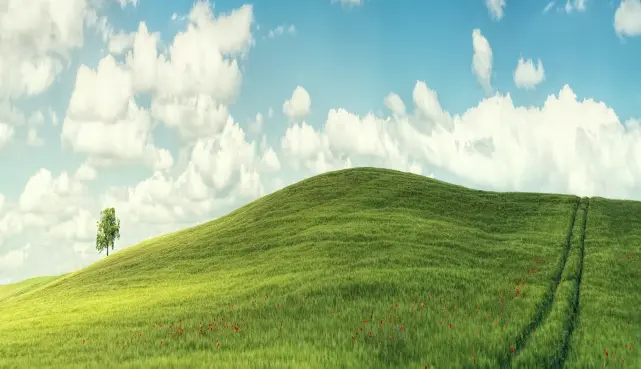
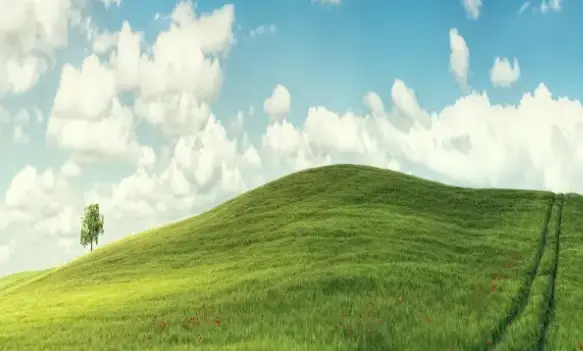
changed the images

diff --git a/src/resources/views/main/pages/career.blade.php b/src/resources/views/main/pages/career.blade.php
@@ -27,6 +27,7 @@
         href="{{ empty($generalSetting) ? asset('assets/images/favicon.png') : $generalSetting->website_favicon_link }}" />
 
     <link rel="preload" type="image/webp" fetchpriority="high" href="{{ asset('assets/career.webp') }}" as="image">
+    <link rel="preload" type="image/webp" fetchpriority="high" href="{{ asset('assets/career_mobile.webp') }}" as="image">
 
     {!! $seo->meta_header_script !!}
     {!! $seo->meta_header_no_script !!}
@@ -76,6 +77,14 @@
             .image-row-min {
                 min-height: 227px
             }
+
+            .about_banner_img{
+                margin-bottom: 0 !important
+            }
+
+            .image-row-min{
+                min-height: auto !important
+            }
         }
     </style>
 @stop
@@ -91,8 +100,17 @@
         <div class="container">
             <div class="row mb-5 image-row-min" data-animate-effect="fadeInUp">
                 <div class="col-md-12 " data-animate-effect="fadeInUp">
-                    <img src="{{ asset('assets/career.webp') }}" fetchpriority="high" alt=""
-                        class="img-fluid about_banner_img lazyload" width="1166" height="532">
+                    {{-- <img src="{{ asset('assets/career.webp') }}" fetchpriority="high" alt=""
+                        class="img-fluid about_banner_img" width="1166" height="532"> --}}
+                    <picture>
+                        <source srcset="{{ asset('assets/career_mobile.webp') }}"
+                                        media="(max-width: 991px)">
+                        <source srcset="{{ asset('assets/career.webp') }}"
+                                        media="(max-width: 1200px)">
+                        <img src="{{ asset('assets/career.webp') }}" width="1166" height="532" fetchpriority="high"
+                            alt="career"
+                            title="career" class="img-fluid about_banner_img">
+                    </picture>
                 </div>
             </div>
             {{-- <div class="row mb-5 " data-animate-effect="fadeInUp">

diff --git a/src/resources/views/main/includes/header.blade.php b/src/resources/views/main/includes/header.blade.php
@@ -31,7 +31,7 @@
             <!-- Logo -->
             <div class="col-6 col-md-6 duru-logo-wrap">
                 {{-- <a aria-label="logo" href="{{route('home_page.get')}}" class="duru-logo"><img fetchpriority="high" src="{{ empty($generalSetting) ? asset('assets/images/black-logo.webp') : $generalSetting->website_logo_link}}" alt="{{ empty($generalSetting) ? '' : $generalSetting->website_logo_alt}}" title="{{ empty($generalSetting) ? '' : $generalSetting->website_logo_title}}" data-img="{{ empty($generalSetting) ? asset('assets/images/logo.png') : $generalSetting->website_logo_link}}"></a> --}}
-                <a aria-label="logo" href="{{route('home_page.get')}}" class="duru-logo"><img fetchpriority="high" class="lazyload" data-src="{{ asset('assets/black-logo.webp') }}" width="69" height="70" alt="{{ empty($generalSetting) ? '' : $generalSetting->website_logo_alt}}" title="{{ empty($generalSetting) ? '' : $generalSetting->website_logo_title}}" data-img="{{ asset('assets/black-logo.webp') }}"></a>
+                <a aria-label="logo" href="{{route('home_page.get')}}" class="duru-logo"><img fetchpriority="high" src="{{ asset('assets/black-logo.webp') }}" width="70" height="70" alt="{{ empty($generalSetting) ? '' : $generalSetting->website_logo_alt}}" title="{{ empty($generalSetting) ? '' : $generalSetting->website_logo_title}}" data-img="{{ asset('assets/black-logo.webp') }}"></a>
             </div>
             <!-- Menu Burger -->
             <div class="col-6 col-md-6 text-right duru-wrap-burger-wrap"> <a aria-label="menu" href="#" id="duru-js-duru-nav-toggle" class="duru-nav-toggle duru-js-duru-nav-toggle"><i></i></a> </div>

diff --git a/src/resources/views/main/pages/index.blade.php b/src/resources/views/main/pages/index.blade.php
@@ -293,10 +293,10 @@
 																																								{{-- <img src="{{$banners->banner_image_link}}" alt="{{$banners->banner_image_alt}}" title="{{$banners->banner_image_title}}" fetchpriority="low"> --}}
 																																								<picture>
 																																												<source data-srcset="{{ $banners->banner_mobile_image_link }}"
-																																																media="(max-width: 600px)" class="lazyload">
+																																																media="(max-width: 991px)" class="lazyload">
 																																												<source data-srcset="{{ $banners->banner_image_link }}"
-																																																media="(max-width: 1920px)" class="lazyload">
-																																												<source data-srcset="{{ $banners->banner_image_link }}" class="lazyload">
+																																																media="(max-width: 1200px)" class="lazyload">
+																																												{{-- <source data-srcset="{{ $banners->banner_image_link }}" class="lazyload"> --}}
 																																												<img data-src="{{ $banners->banner_image_link }}"
 																																																alt="{{ $banners->banner_image_alt }}" width="1256" height="644"
 																																																title="{{ $banners->banner_image_title }}" class="lazyload">

diff --git a/src/resources/views/main/pages/land_owner.blade.php b/src/resources/views/main/pages/land_owner.blade.php
@@ -88,7 +88,7 @@
                 <div class="col-md-12" data-animate-effect="fadeInUp">
                     <div class="img fr-img" data-animate-effect="fadeInUp">
                         <img src="{{ asset('assets/land.webp') }}" fetchpriority="high" alt=""
-                            class="img-fluid about_banner_img" width="583" height="240">
+                            class="img-fluid about_banner_img" width="583" height="351">
                     </div>
                     <div class="wrap">
                         {{-- <h1 class="section-title">Dear [ <span style="color: black; text-transform:capitalize">Land Owner</span> ]</h1> --}}

diff --git a/src/resources/views/main/includes/common_head.blade.php b/src/resources/views/main/includes/common_head.blade.php
@@ -12,6 +12,8 @@
     <link rel="preconnect" href="https://fonts.gstatic.com">
     <link rel="preconnect" href="https://src.plumb5.com/snnrajcorp_com.js">
 
+    <link rel="preload" type="image/webp" fetchpriority="high" href="{{ asset('assets/black-logo.webp') }}" as="image">
+
     {{-- <link rel="stylesheet" href="https://fonts.googleapis.com/css2?family=Barlow:ital,wght@0,300;0,400;1,300;1,400&amp;family=Oswald:wght@300;400&amp;display=swap"> --}}
     @vite(['resources/css/app.css'])
     <style nonce="{{ csp_nonce() }}">
